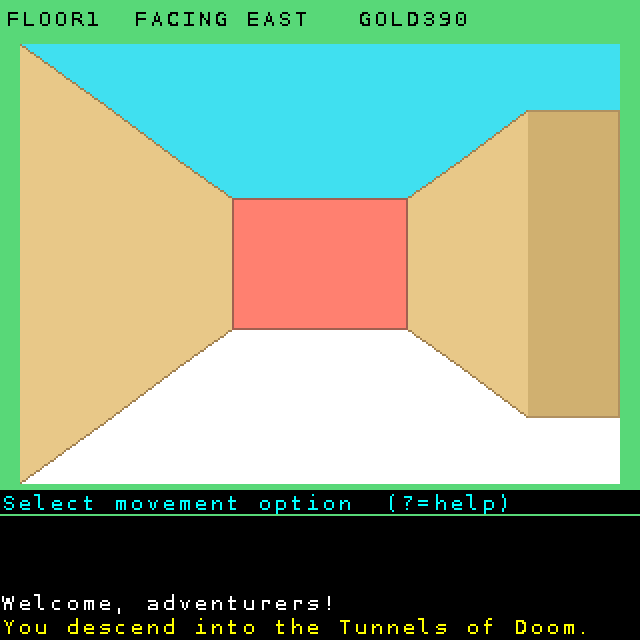
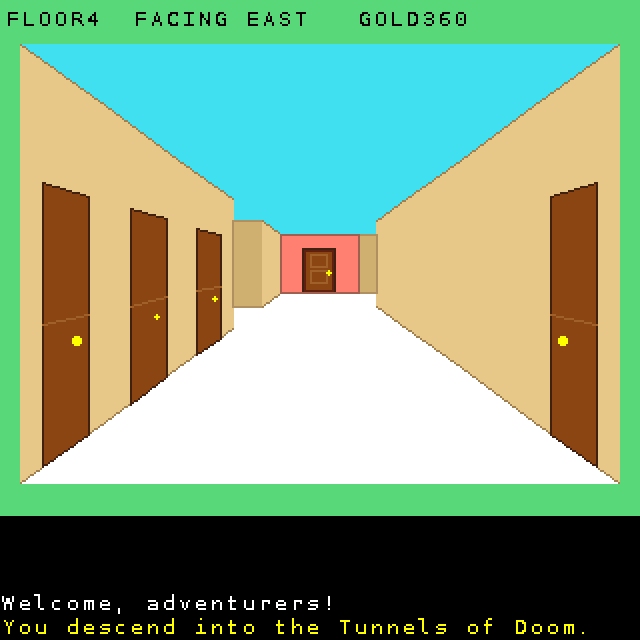
Adding Doors
Adding Door shapes to hallway view

diff --git a/README.md b/README.md
@@ -82,7 +82,7 @@ There are two views.
 
 ![Room view](screens/3_room_view.png)
 
-**Hallway view** (first person). **UP** walks forward, **LEFT/RIGHT** turn, **DOWN** turns around. The top bar shows which way you are facing.
+**Hallway view** (first person). Openings in the walls lead to more hallway; wooden doors, on the side walls or straight ahead, lead into rooms. **UP** walks forward, **LEFT/RIGHT** turn, **DOWN** turns around. The top bar shows which way you are facing.
 
 ![Hallway view](screens/4_hallway_view.png)
 
@@ -309,12 +309,11 @@ Hand-drawn floors keep exactly the features you draw. Monsters, gold, items, the
 The editor is deliberately simple. Possible future features, roughly in order of usefulness:
 
 1. **Graphical map editor** — move a cursor over the grid and place rooms, stairs and links, instead of typing map rows.
-2. **Randomisers** — generate a monster, item, quest name or a whole floor map at random, with stats scaled to the floor.
-3. **Pick lists** — choose item kinds, classes and colours from menus rather than typing codes, with a colour preview for monsters.
-4. **Balance report** — per floor: monsters available, average monster strength, gold and items on offer.
-5. **Play-test button** — save and run `TOD.BAS` on the module directly.
-6. **Search and bulk edit** — find a name across the file, or scale all monster hit points by a percentage.
-7. **Undo** for the last change, and automatic backup (`.BAK`) on save.
+2. **Pick lists** — choose item kinds, classes and colours from menus rather than typing codes, with a colour preview for monsters.
+3. **Balance report** — per floor: monsters available, average monster strength, gold and items on offer.
+4. **Play-test** — save and run `TOD.BAS` on the module directly.
+5. **Search and bulk edit** — find a name across the file, or scale all monster hit points by a percentage.
+6. **Automatic backup** — back up original adv (`.BAK`) on save.
 
 ## 4. Developer's guide
 
@@ -342,7 +341,7 @@ The source is split into commented sections, in this order:
 | Module & party loading | `LoadModule`, `LoadParty`, `ApplyKits`, `FindItem` |
 | Dungeon generation | `BuildDungeon` → per floor `GenFloor` (or `ParseMap` for drawn floors), `Carve`, `Link`, `Populate`, `PlaceSpecial`; `PickMon`, `MonCount`, `PickItem` |
 | Items & party | `GiveItem`, `PickMI`, `UseMagic`, `IName$`, `Info$`, `Alive`, `PartyAlive`, `AllFound`, `Wound`, `Prot`, `AskP`, `GainXP`, `SwapP` |
-| Drawing | `DrawFig`, `DrawMon`, `DrawHall` (perspective corridor), `DrawArena`, `Panel`, `DrawRoomScr`, `Redraw`, `ShowMapScr` |
+| Drawing | `DrawFig`, `DrawMon`, `DrawHall` (perspective corridor, with `ExitKind`, `SideDoor` and `FrontDoor` for doors into rooms), `DrawArena`, `Panel`, `DrawRoomScr`, `Redraw`, `ShowMapScr` |
 | Reports | `PlayerRpt`, `PartyRpt`, `MonRpt`, `HelpScr`, `Ind$`, `WName$`, `Store` |
 | Exploration | `PlayGame` (key loop), `Walk`, `MoveTo`, `TakeStep`, `TimeStep`, `Stairs`, `Listen`, `Trade`, `Formation` |
 | Rooms | `RoomEvents`, `Treasure`, `Reveal`, `Vault`, `Fountain`, `Statue` |
